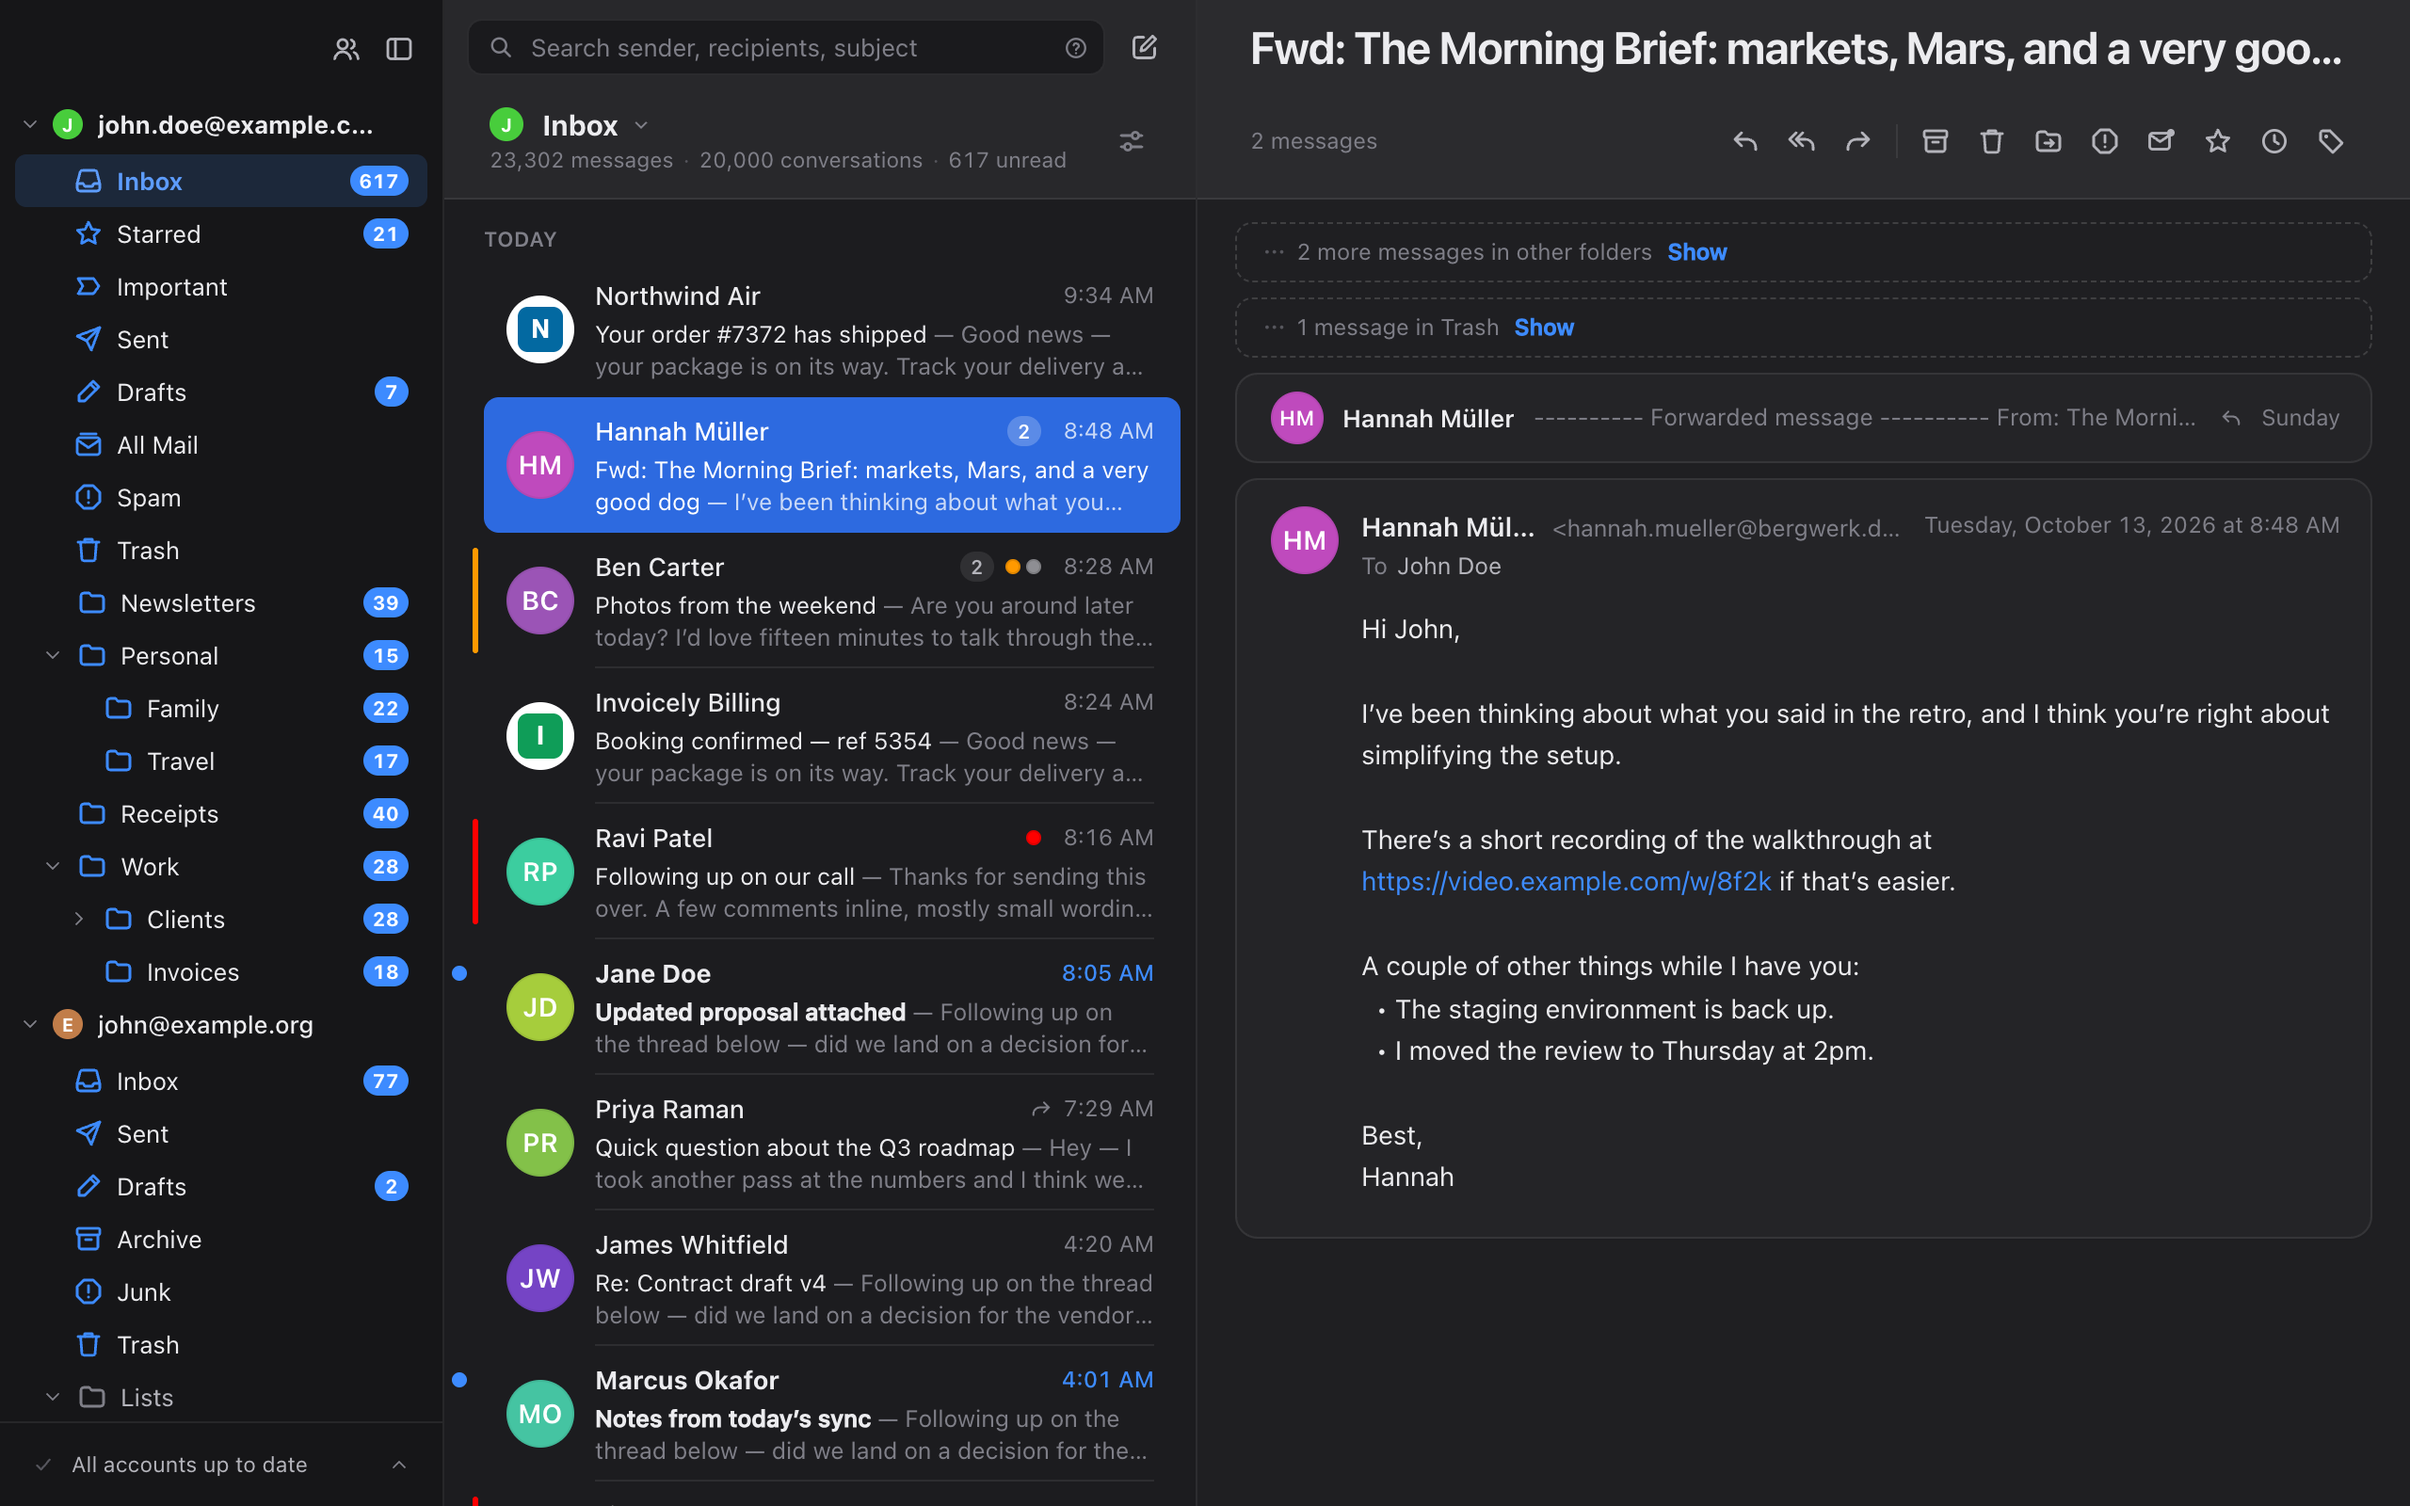
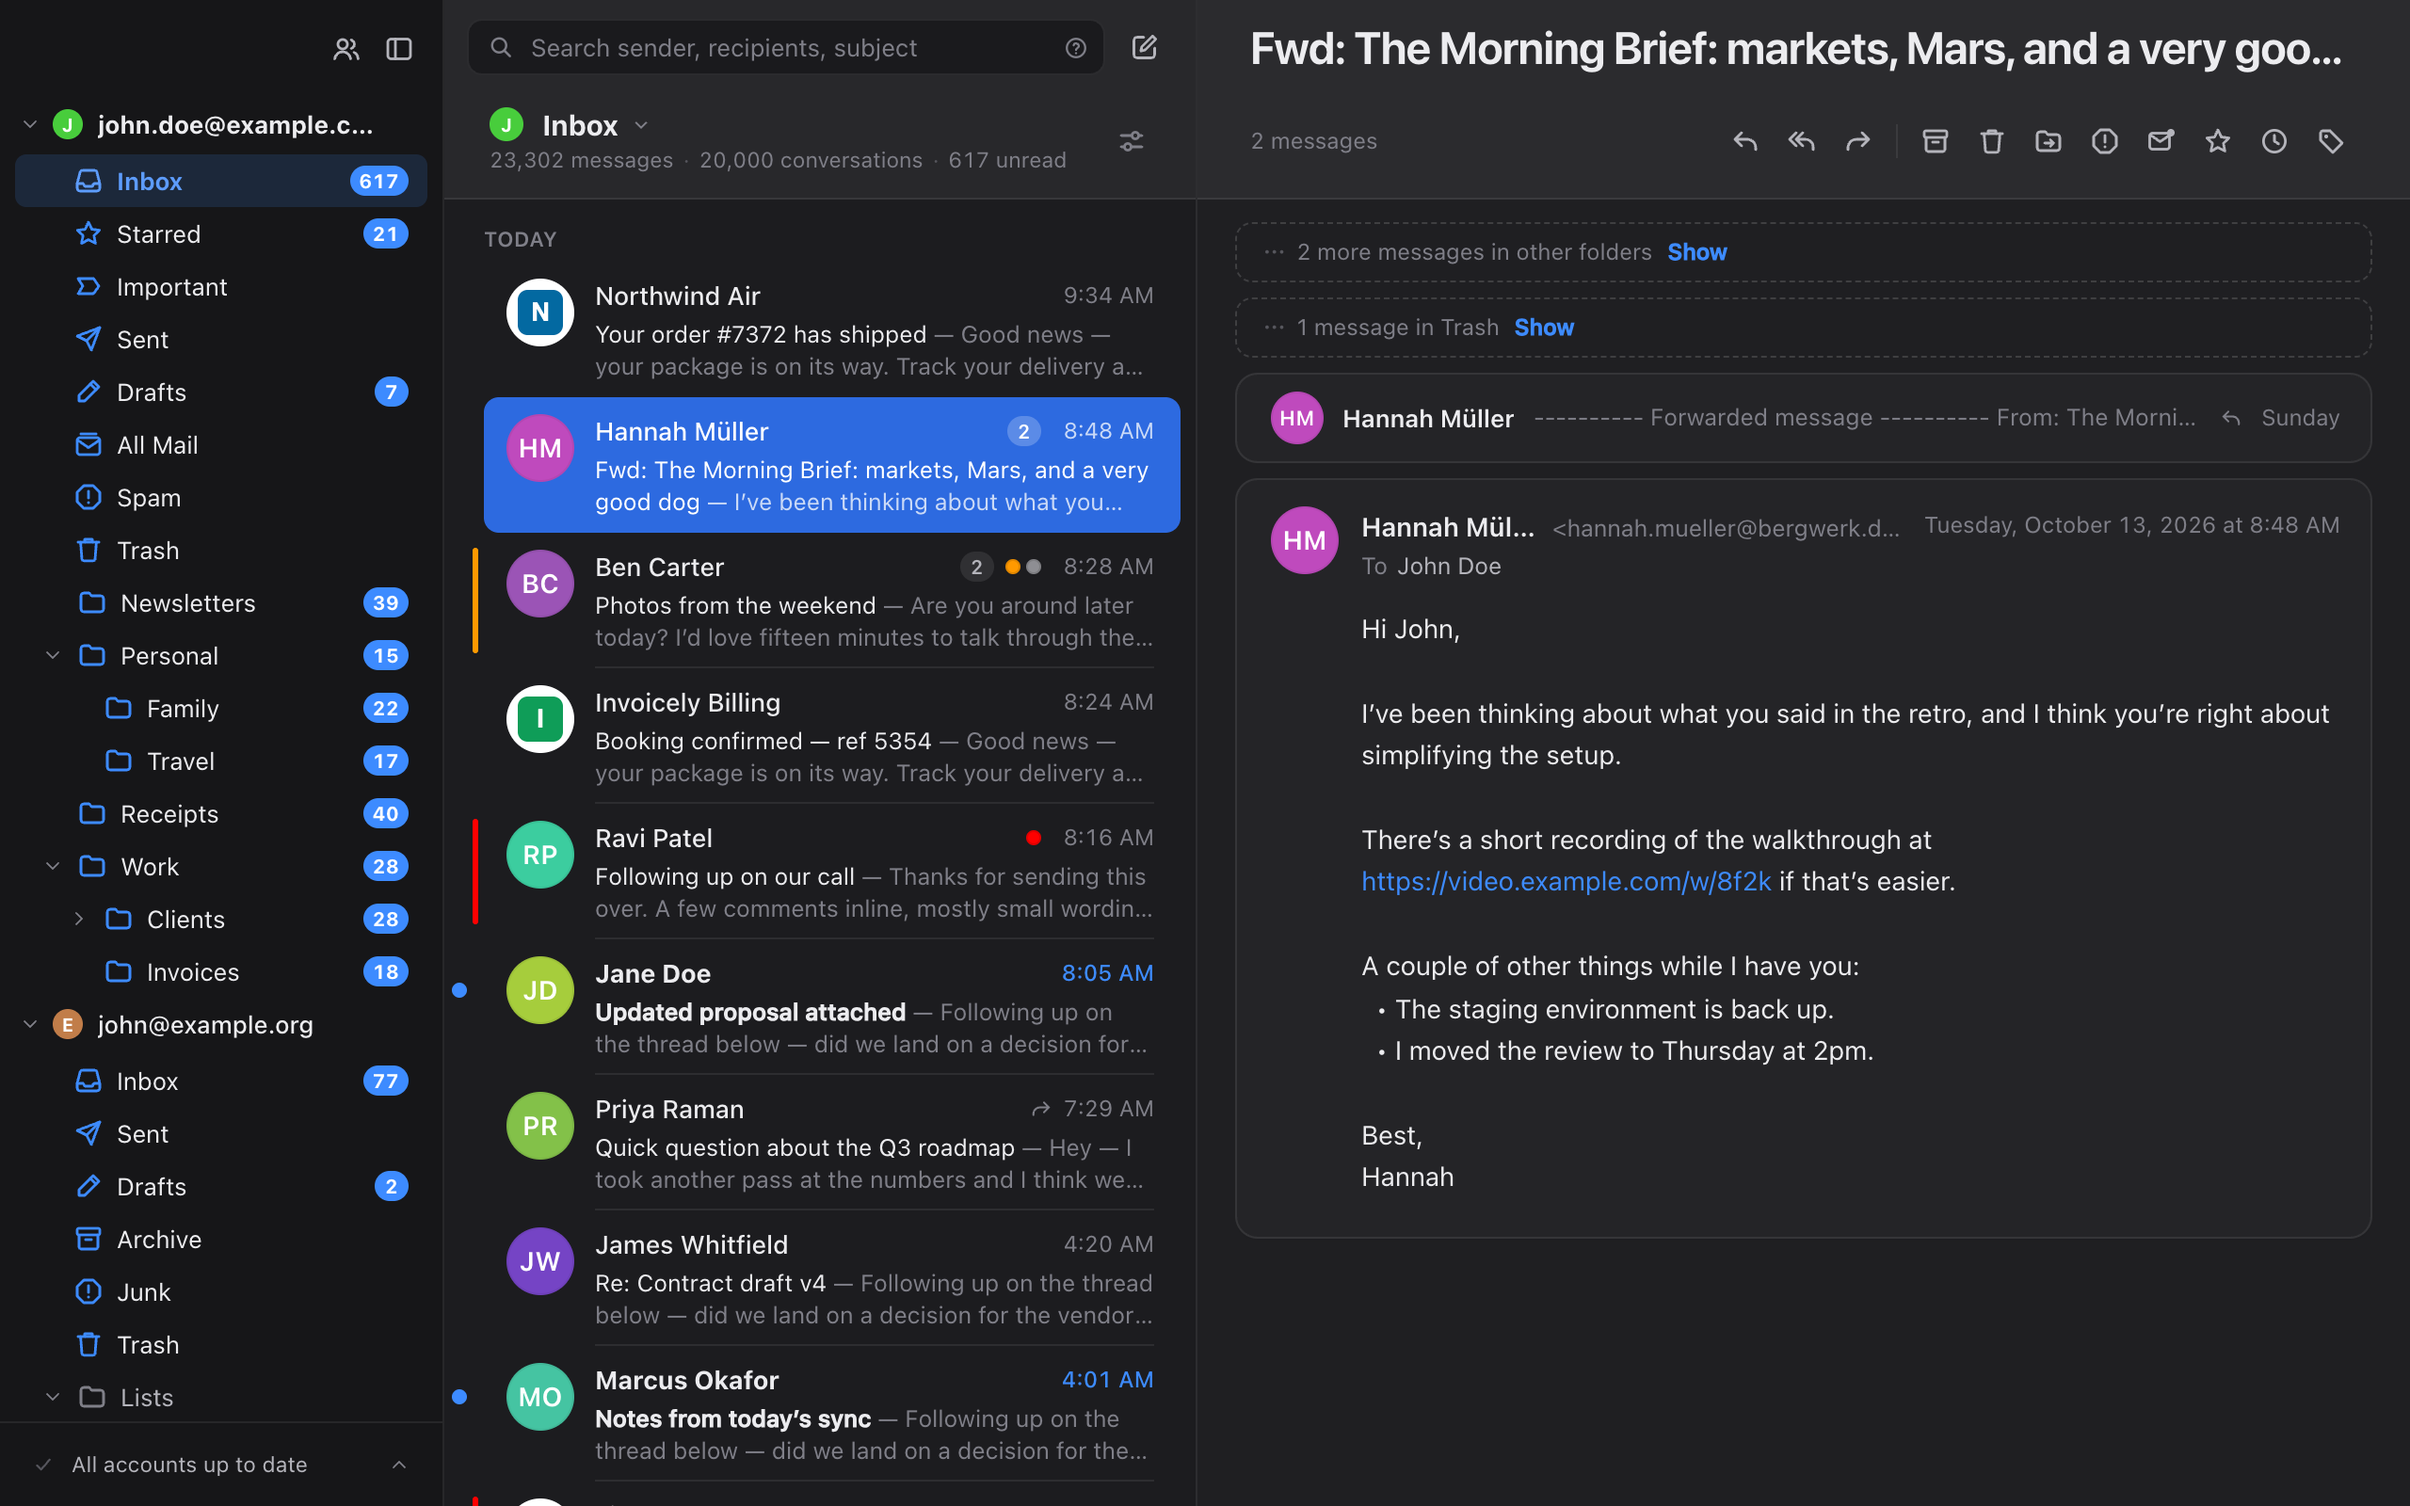
List rows: the sender picture level with the sender's line, the unread dot centred on it

diff --git a/app/src/styles.css b/app/src/styles.css
@@ -5554,10 +5554,14 @@ body.dragging-account * {
 .row-inner.with-avatar::after {
   left: 59px;
 }
+/* top-aligned with the text (the sender's line), the unread dot centred on it */
 .row-avatar {
   position: absolute;
   left: 12px;
-  top: calc((var(--row-h) - 36px) / 2);
+  top: calc((var(--row-h) - 56px) / 2 + 1px);
+}
+.row-inner.with-avatar .unread-dot {
+  top: calc((var(--row-h) - 56px) / 2 + 1px + 14px);
 }
 .avatar.pic {
   overflow: hidden;
